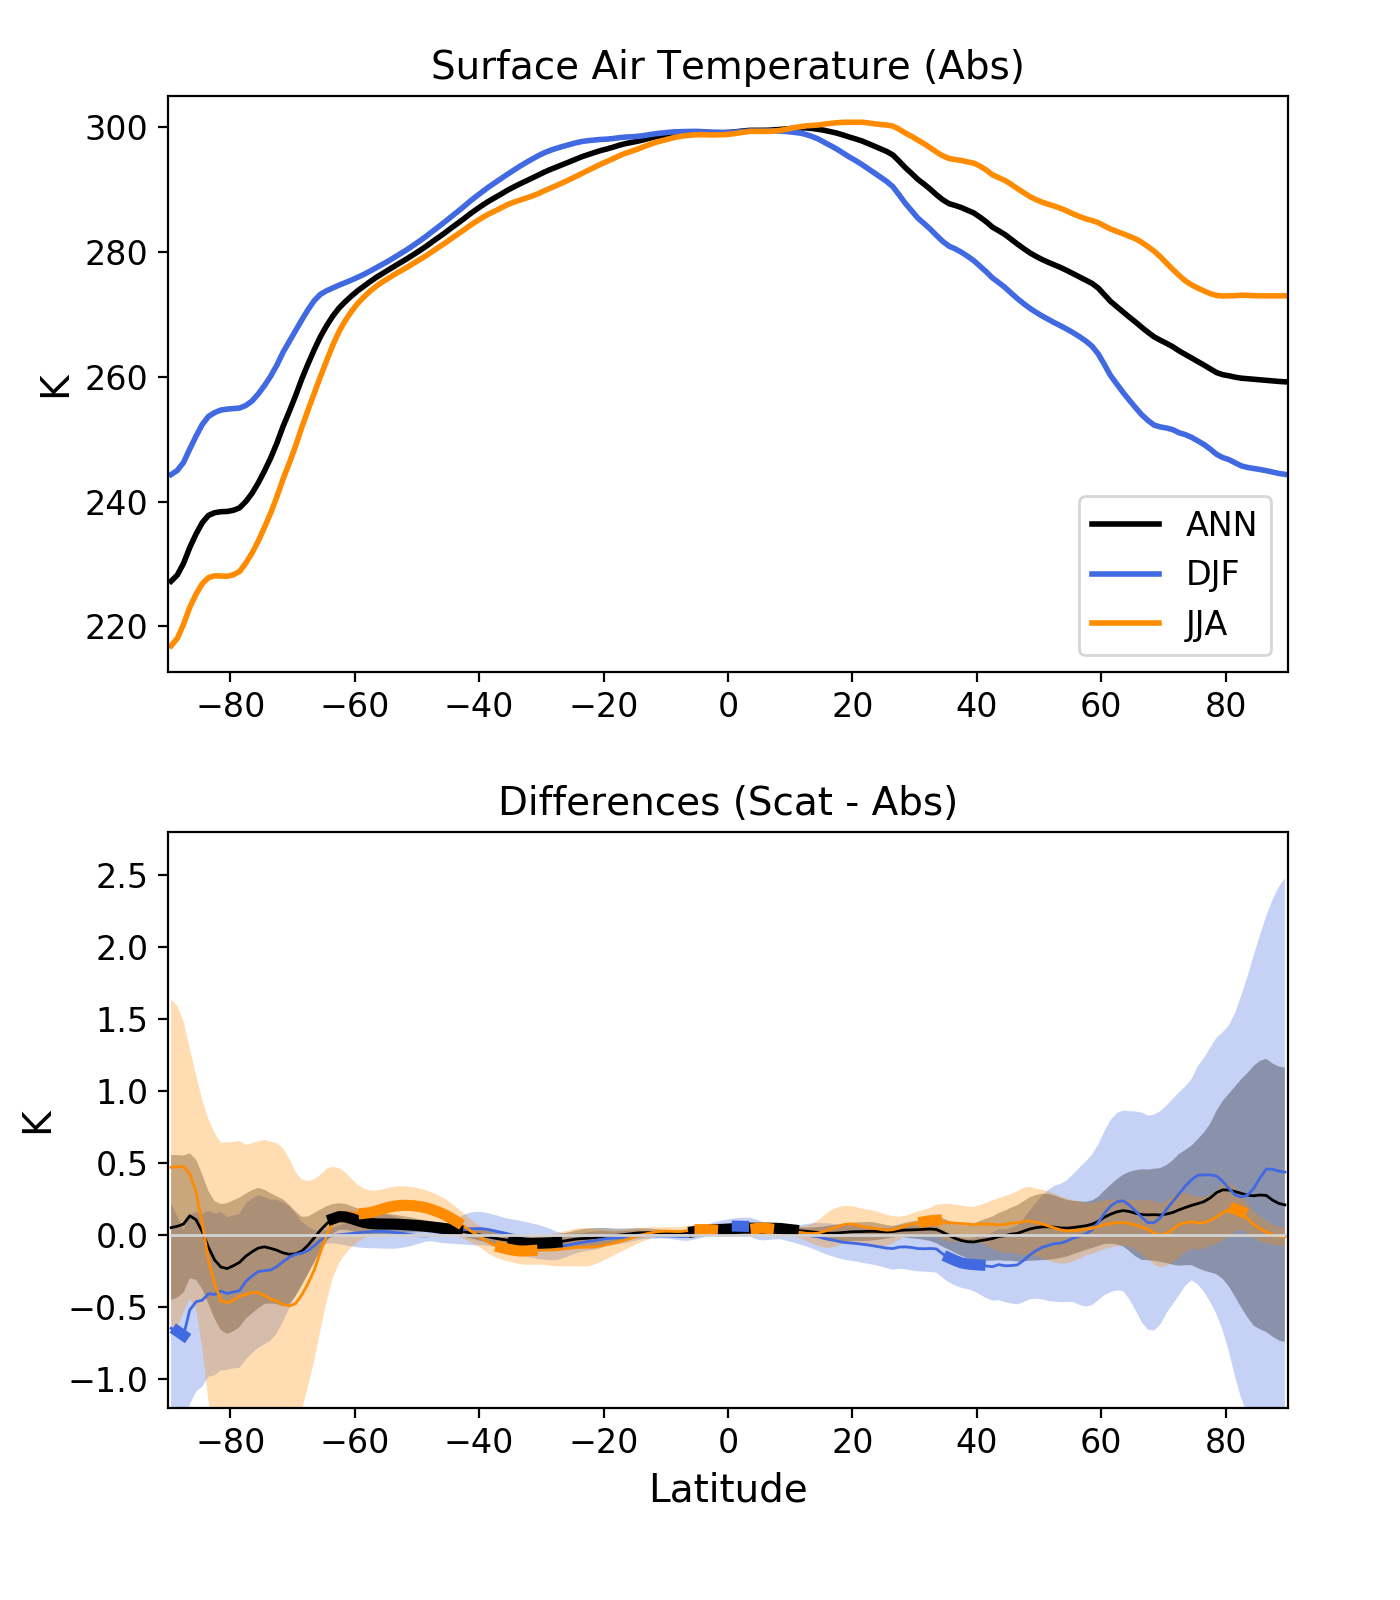
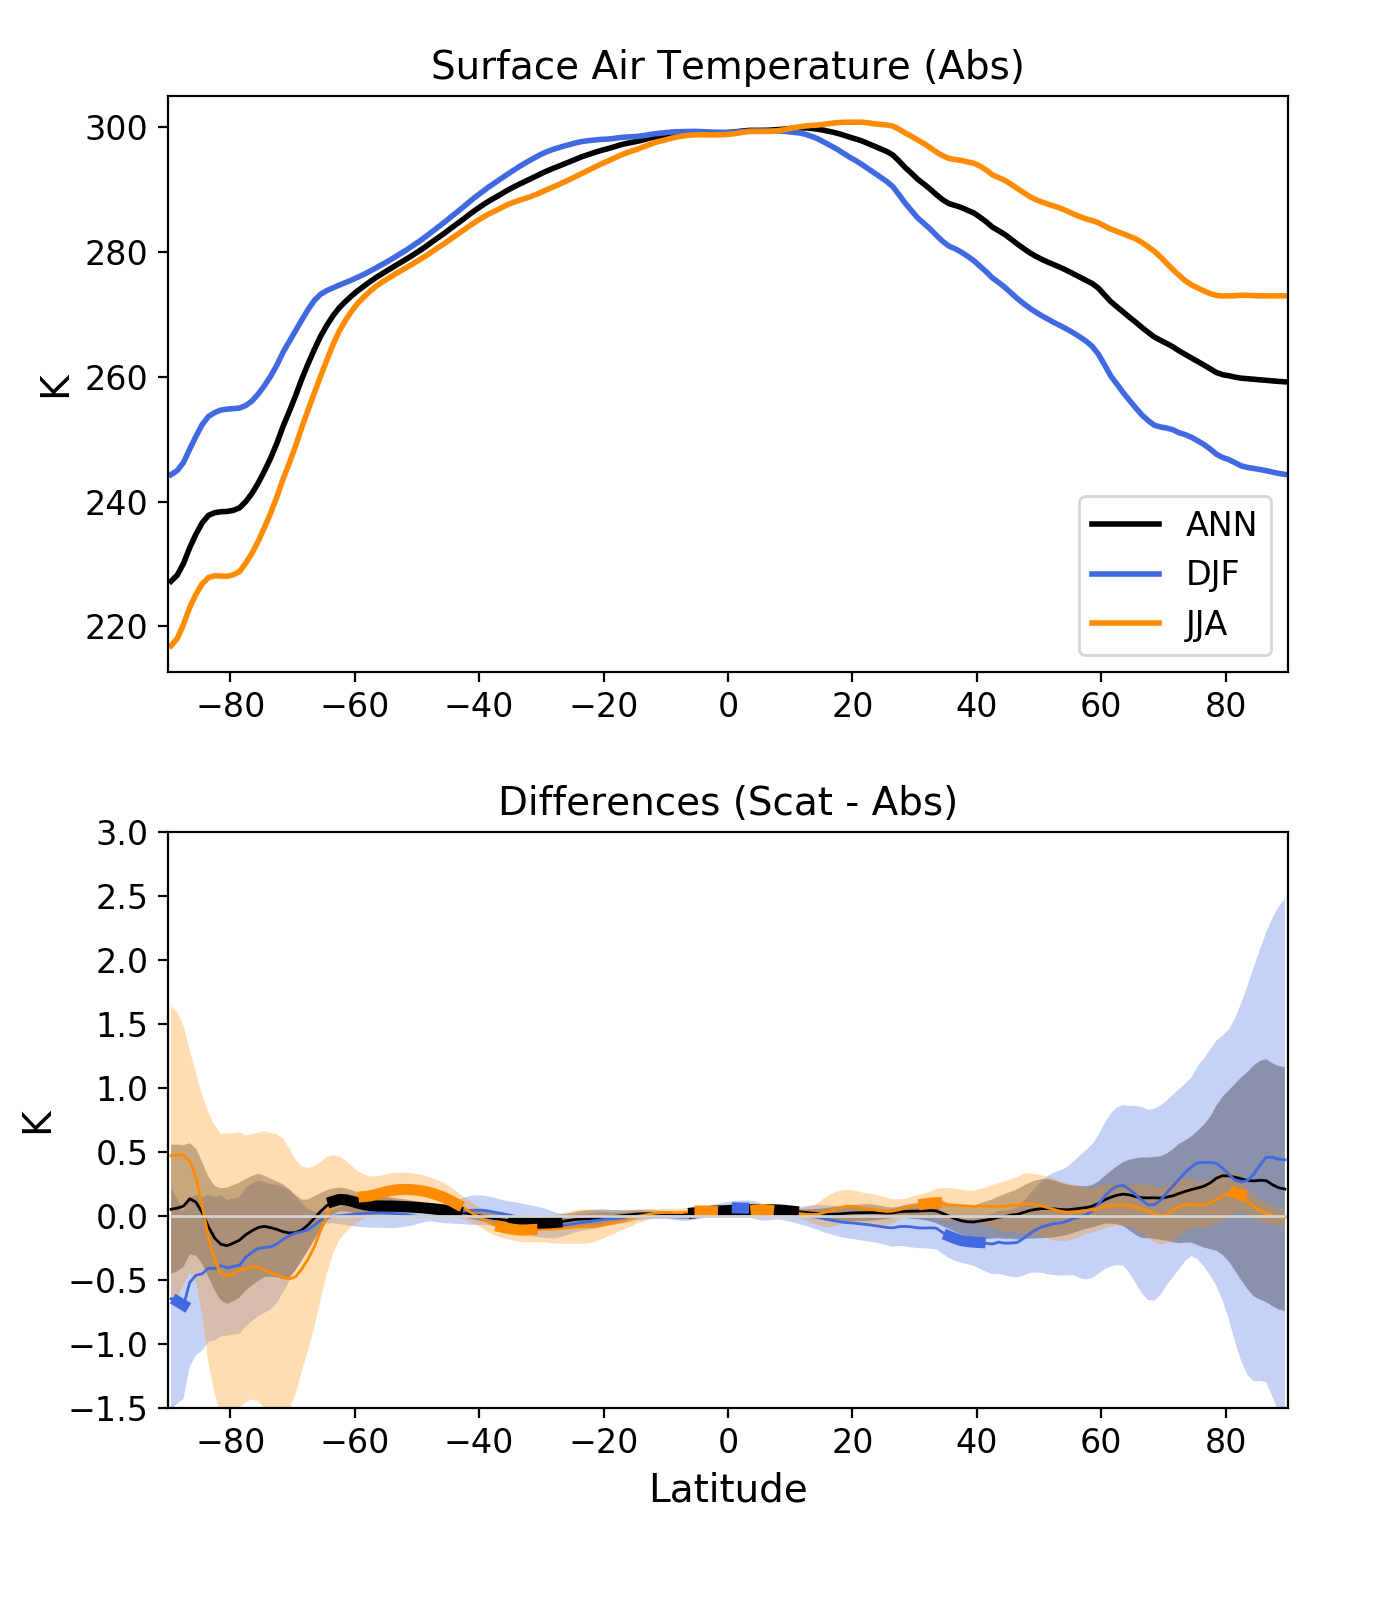
none again

Changed region(s): [[0.0614, 0.6875, 0.9214, 0.875], [0.0614, 0.5, 0.1229, 0.6875], [0.8907, 0.5625, 0.9214, 0.5938]]

diff --git a/d4_zonal_mean_model_vs_model.py b/d4_zonal_mean_model_vs_model.py
@@ -31,14 +31,14 @@ from get_parameters import get_area_mean_min_max
 # data path
 ctl_name="Abs" #os.environ["ctl_name"]
 exp_name="Scat" #os.environ["exp_name"]
-ctl_pref="CMIP_RRTMG_UMRad_abs.ne30_ne30.cori-knl"
-exp_pref="CMIP_RRTMG_UMRad_scat.ne30_ne30.cori-knl"
+ctl_pref="AMIP_RRTMG_UMRad_abs.ne30_ne30.cori-knl"
+exp_pref="AMIP_RRTMG_UMRad_scat.ne30_ne30.cori-knl"
 
 fpath_ctl="/global/cscratch1/sd/xianwen/E3SM_simulations/"+ctl_pref+"/archive/climo/yby/"
 fpath_exp="/global/cscratch1/sd/xianwen/E3SM_simulations/"+exp_pref+"/archive/climo/yby/"
  
-#years=np.arange(2001,2011) 
-years=np.arange(2010,2021) 
+years=np.arange(2001,2011) 
+#years=np.arange(2010,2021) 
 months_all=["01","02","03","04","05","06","07","08","09","10","11","12"]
 
 var_group_todo=1
@@ -46,7 +46,7 @@ var_group_todo=1
 varnms=np.array(["TREFHT"])
 #varnms=np.array(["FSNTOA","FSNS","TS"])
 var_long_name="Surface air Temperature"
-figure_name="Surface_air_Temperature_zonal_ANN_CMIP_scat_vs_abs_2010-21"
+figure_name="Surface_air_Temperature_zonal_ANN_AMIP_scat_vs_abs_2001-10"
 units="K"
 #var_long_name="Surface Net SW"
 #figure_name="Surface_Net_SW_zonal_ANN"
@@ -265,7 +265,7 @@ ax2.set_title("Differences (Scat - Abs)",fontsize=14) #+var_long_name,fontsize=1
 ax2.set_ylabel(units,fontsize=14)
 ax2.set_xlabel("Latitude",fontsize=14)
 ax2.set_xlim(-90,90)
-ax2.set_ylim(-1.5,3.5)
+ax2.set_ylim(-1.5,3.0)
 plt.xticks(fontsize=12)
 plt.yticks(fontsize=12)
 
